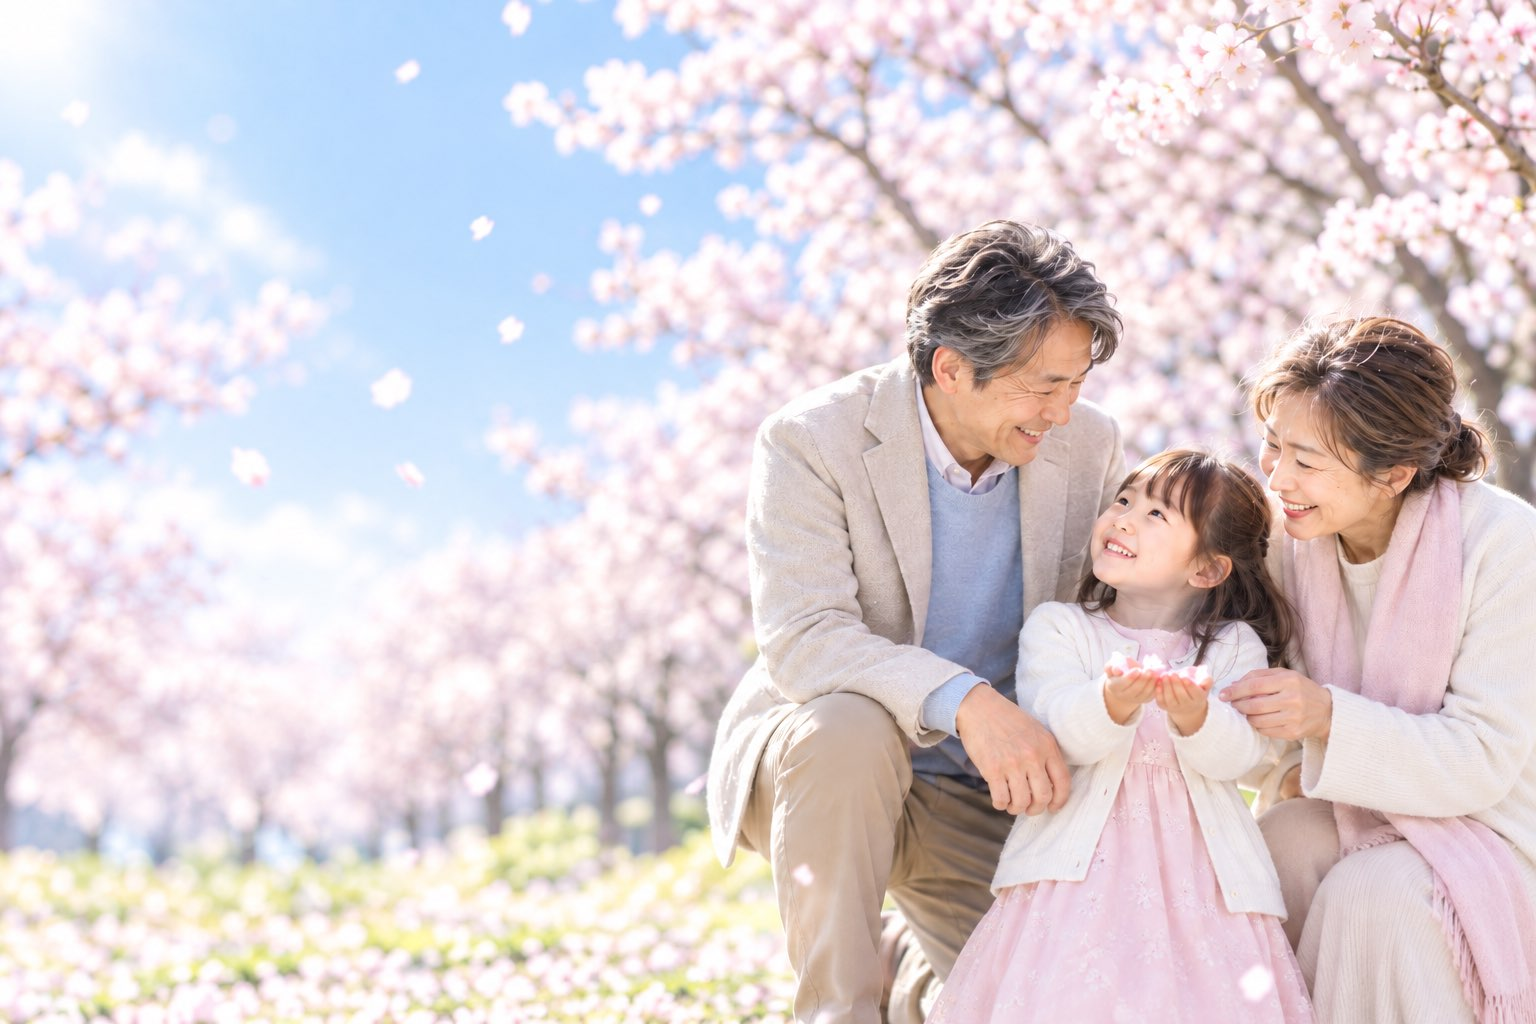
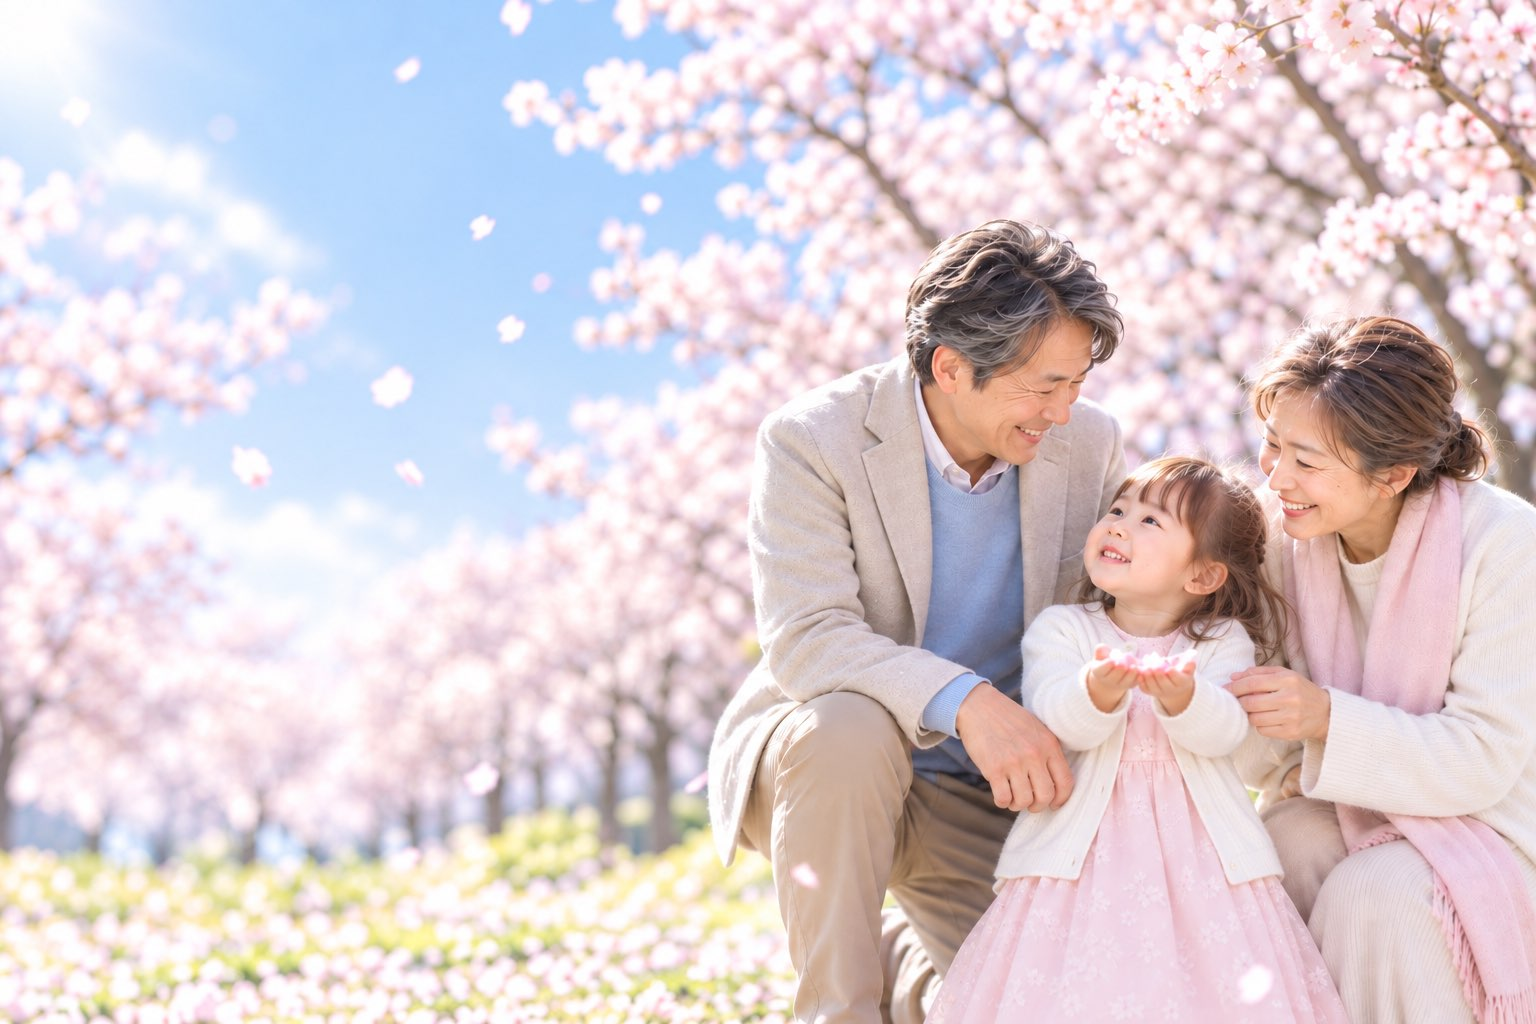
トップの季節の写真：三世代の春の孫の女の子を、もう少し小さな子（2〜3歳）にした写真に差し替える
祖父母の見た目と髪は前の写真のまま（70歳前後にした版は老けすぎたので使わない）。

Claude-Session: https://claude.ai/code/session_01DkWFmwe3Z7eAywpshKupJG

diff --git a/motion/index.html b/motion/index.html
@@ -98,7 +98,7 @@
       <img loading="lazy" decoding="async" width="1536" height="1024" data-src="../images/hero-summer.jpg?v=618163a0" alt="">
       <img loading="lazy" decoding="async" width="1536" height="1024" data-src="../images/life-autumn.jpg?v=6a05a14d" alt="">
       <img loading="lazy" decoding="async" width="1536" height="1024" data-src="../images/life-winter.jpg?v=59ed502c" alt="">
-      <img loading="lazy" decoding="async" width="1536" height="1024" data-src="../images/life-spring2.jpg?v=009a7bcf" alt="">
+      <img loading="lazy" decoding="async" width="1536" height="1024" data-src="../images/life-spring2.jpg?v=d7f32497" alt="">
     </div>
     <div class="wrap fv-inner">
       <div class="fv-copy">

diff --git a/index.html b/index.html
@@ -97,7 +97,7 @@
       <img loading="lazy" decoding="async" width="1536" height="1024" data-src="./images/hero-summer.jpg?v=618163a0" alt="">
       <img loading="lazy" decoding="async" width="1536" height="1024" data-src="./images/life-autumn.jpg?v=6a05a14d" alt="">
       <img loading="lazy" decoding="async" width="1536" height="1024" data-src="./images/life-winter.jpg?v=59ed502c" alt="">
-      <img loading="lazy" decoding="async" width="1536" height="1024" data-src="./images/life-spring2.jpg?v=009a7bcf" alt="">
+      <img loading="lazy" decoding="async" width="1536" height="1024" data-src="./images/life-spring2.jpg?v=d7f32497" alt="">
     </div>
     <div class="wrap fv-inner">
       <div class="fv-copy">

diff --git a/README.md b/README.md
@@ -28,7 +28,7 @@
 ## トップの写真の季節の切り替え（人生の四季）
 
 - 2026-10-05、お客さまから「トップの写真を春→夏→秋→冬とループさせたい」と要望があり、試作で確かめてからトップに入れた
-- 写真は「人生の四季」：春＝新婚の二人（`images/life-spring.jpg`）、夏＝子育て・公園で肩車（`hero-summer.jpg`）、秋＝40歳前後の夫婦と男の子（`life-autumn.jpg`）、冬＝60代前半の二人（`life-winter.jpg`）、そのあと三世代の春＝祖父母になった二人と4〜5歳の孫の女の子（`life-spring2.jpg`。冬のあとにもう一度春が来て、最初の新婚の春へ戻る）。`build.py` の `SEASON_PHOTOS`
+- 写真は「人生の四季」：春＝新婚の二人（`images/life-spring.jpg`）、夏＝子育て・公園で肩車（`hero-summer.jpg`）、秋＝40歳前後の夫婦と男の子（`life-autumn.jpg`）、冬＝60代前半の二人（`life-winter.jpg`）、そのあと三世代の春＝祖父母になった二人と2〜3歳の孫の女の子（`life-spring2.jpg`。冬のあとにもう一度春が来て、最初の新婚の春へ戻る）。`build.py` の `SEASON_PHOTOS`
 - 先に「同じ家族の1年」（春＝hero.jpg、夏・秋・冬で場面とポーズを変えた同じ家族）で作り、「人生の四季」と見比べて、こちらに決めた（同じ家族の秋・冬の写真は外した）
 - 写真は ChatGPT で、今の hero.jpg を添付して生成。指示が足りず、夫婦の向きが3枚とも同じ・秋の子どもが女の子・年齢が若すぎる／離れすぎる、となったので、秋と冬を作り直した。冬は70代だと秋から離れすぎるので60代前半にした
 - 夏に hero.jpg を使うと、それまでのトップの写真と同じに見えるので使わない（hero.jpg は事業内容ページで使っている）
